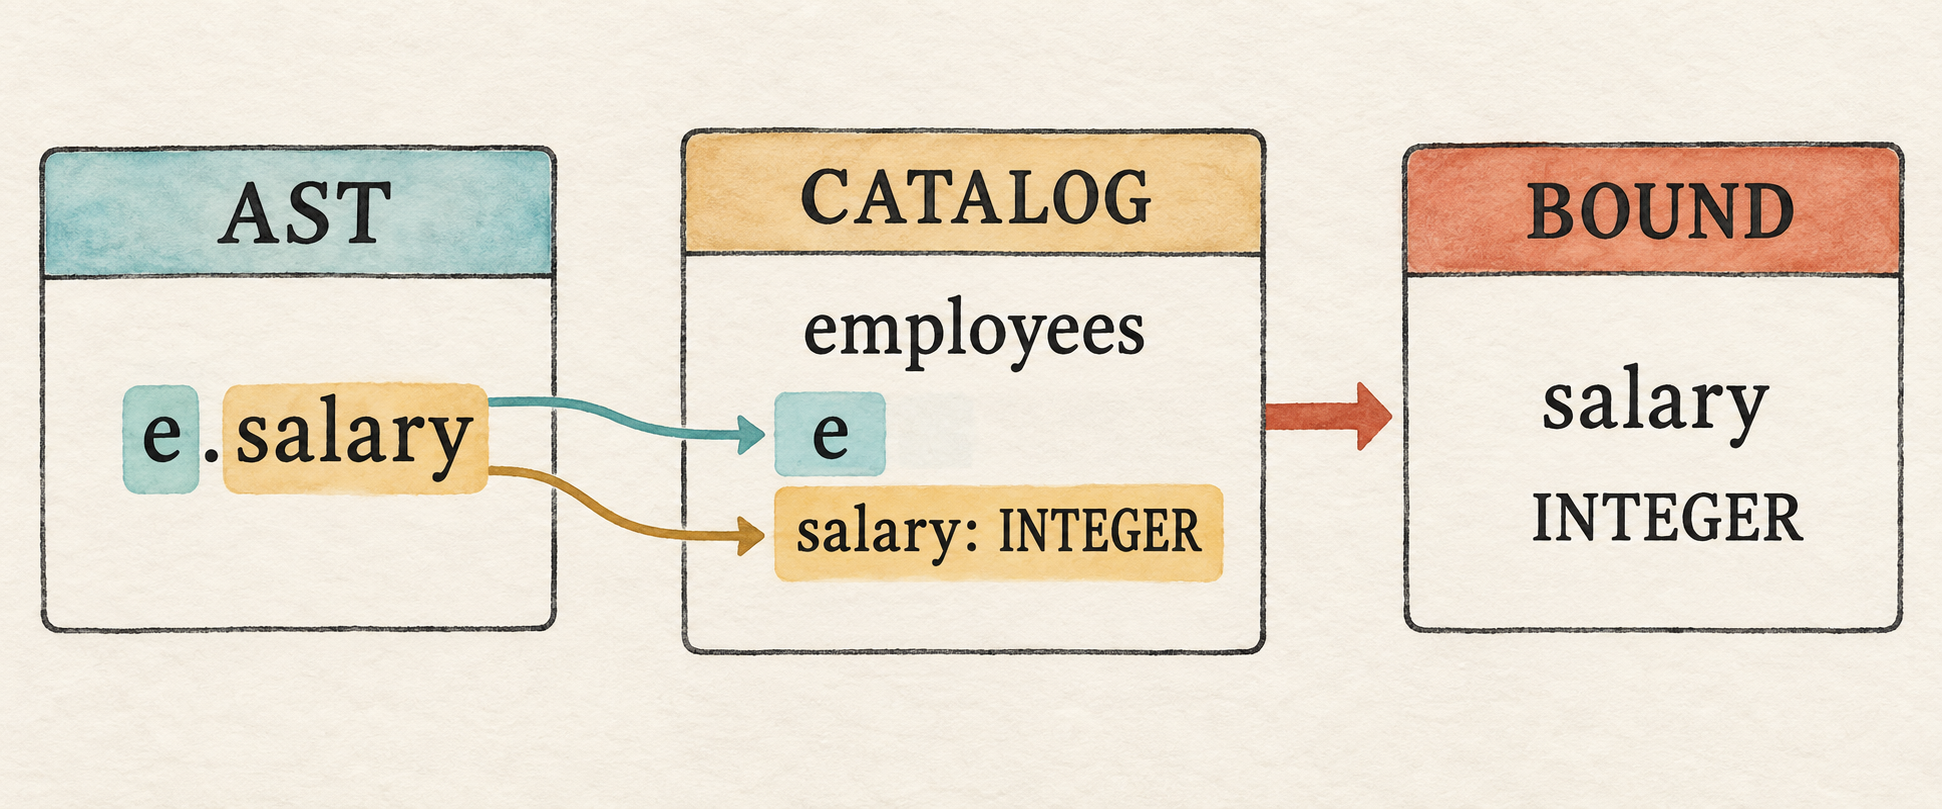
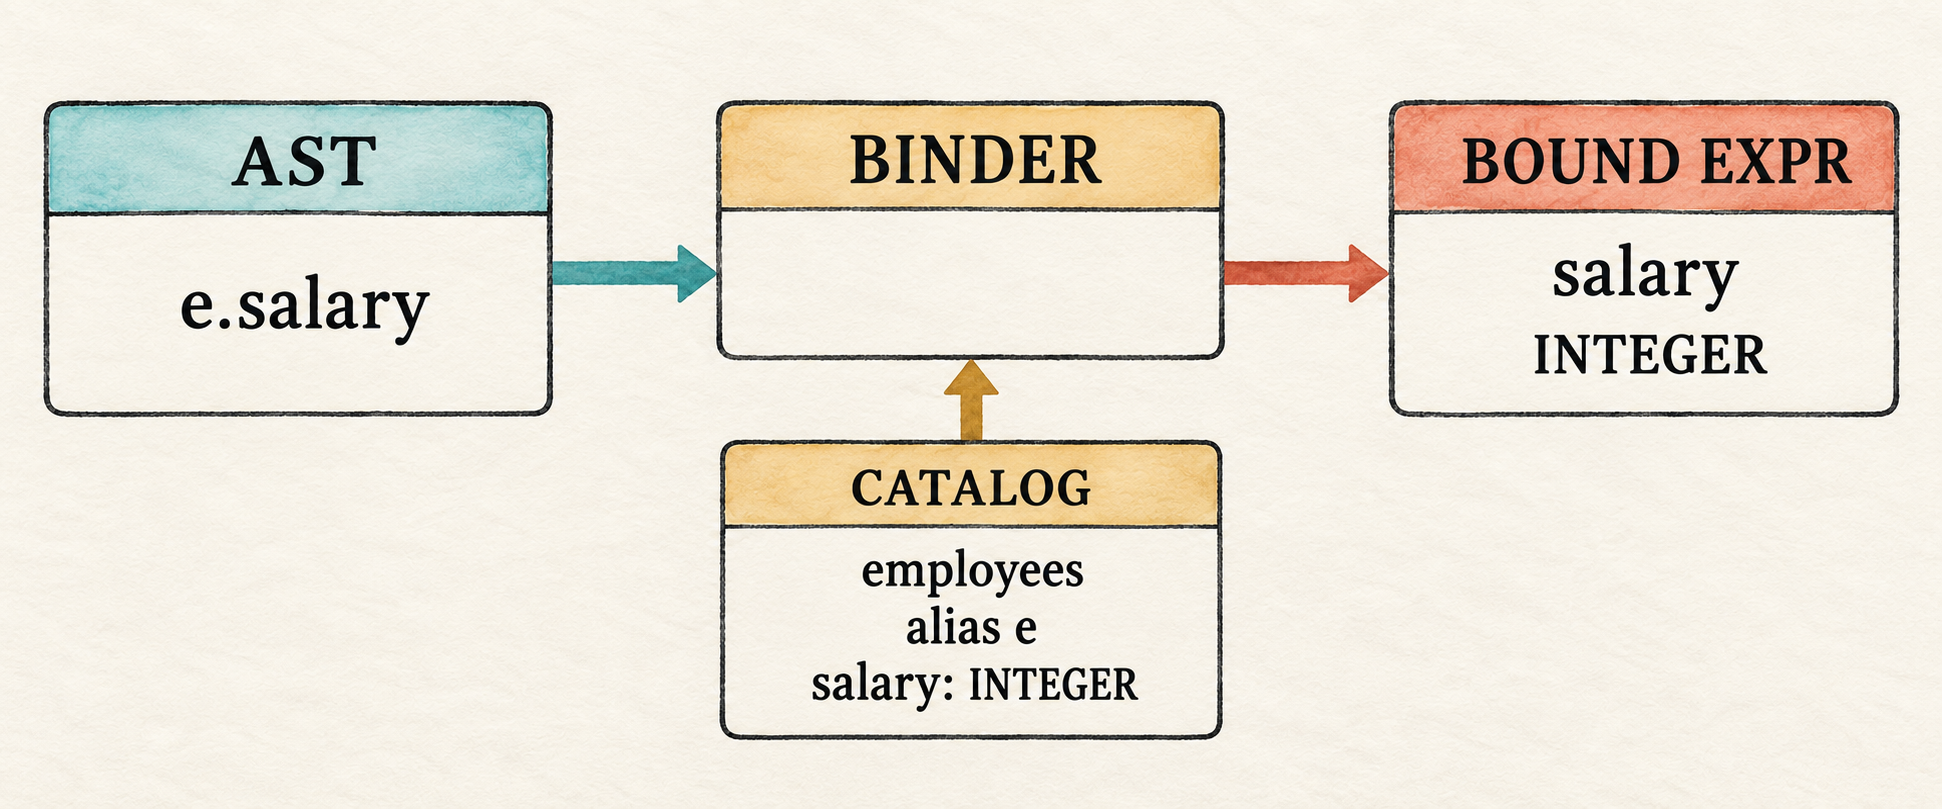
Clarify Chapter 5 binding and evaluation flow

diff --git a/book/005-binding-gives-names-meaning.md b/book/005-binding-gives-names-meaning.md
@@ -334,6 +334,11 @@ exists, that alias is accepted; otherwise, the table name may qualify a
 column. `columns` contains the selected table's catalog columns. The binder
 searches this slice to verify a column name and recover its type.
 
+This teaching dialect compares table, alias, and column names using their
+exact spelling. Standard SQL normally folds unquoted identifiers to a
+canonical case, but identifier normalization and quoted identifiers remain
+outside the current chapter.
+
 For the representative query:
 
 ```sql
@@ -679,8 +684,8 @@ after all of its children have resolved names and passed their type checks.
 The resulting plan contains two checked trees but has no execution method yet.
 
 <figure class="book-illustration book-diagram">
-  <img src="images/005-column-binding.png" alt="The unresolved AST column e.salary is checked against an employees catalog entry where alias e maps salary to INTEGER, producing a bound salary column with integer type.">
-  <figcaption>Binding checks the qualifier and column, recovers the type, and produces a simpler expression for execution.</figcaption>
+  <img src="images/005-column-binding.png" alt="The unresolved AST column e.salary and an employees catalog entry enter the binder, which produces a bound salary column with integer type.">
+  <figcaption>The AST and catalog enter the binder, which validates the qualifier and column and produces a typed bound expression.</figcaption>
 </figure>
 
 ## 5.5 Inspect the bound plan
@@ -750,8 +755,10 @@ fn employee_catalog() -> Catalog {
 
 The column list is the schema for the rows below it. Nothing in this small
 catalog forces that schema and `employee()` to agree, so adding or changing a
-column requires updating both. A later storage representation will remove
-this manually maintained duplication.
+column requires updating both. Later, when rows are created from a table's
+schema, the database can prevent this mismatch instead of relying on the
+application to keep the column definitions and row values synchronized. The
+roadmap deliberately leaves that exact chapter boundary open.
 
 The prompt stops after binding and prints the plan rather than executing it.
 
@@ -834,10 +841,13 @@ that checked expression produces for the current row.
 Binding has already removed unresolved names and rejected invalid operand
 types. Evaluation can therefore work from the leaves upward: obtain column and
 literal values first, then apply each parent operator to the values produced by
-its children. We will import `Row` alongside `Value` and give the bound tree an
-evaluation method.
+its children. As with binding, we will define the operation-specific functions
+first and assemble the recursive dispatcher last.
 
-### 5.6.1 Evaluate the bound tree
+### 5.6.1 Evaluate unary operations
+
+Evaluation will read columns from a `Row`, so import `Row` alongside `Value`
+before adding the operation-specific functions.
 
 `src/expression.rs`: replace the first import
 
@@ -845,40 +855,10 @@ evaluation method.
 use crate::row::{Row, Value};
 ```
 
-`src/expression.rs`: add after `BoundExpr`
-
-```rust
-impl BoundExpr {
-    pub fn evaluate(&self, row: &Row) -> Result<Value, String> {
-        match self {
-            BoundExpr::Column(name) => row.get(name).cloned()
-                .ok_or_else(|| format!(
-                    "bound column is missing at execution: {name}")),
-            BoundExpr::Literal(value) => Ok(value.clone()),
-            BoundExpr::Unary { op, expression } => {
-                evaluate_unary(op, expression.evaluate(row)?)
-            }
-            BoundExpr::Binary { left, op, right } => {
-                evaluate_binary(left.evaluate(row)?, op,
-                    right.evaluate(row)?)
-            }
-            BoundExpr::IsNull { expression, negated } => {
-                let is_null = expression.evaluate(row)? == Value::Null;
-                Ok(Value::Boolean(if *negated {
-                    !is_null
-                } else {
-                    is_null
-                }))
-            }
-        }
-    }
-}
-```
-
 Unary evaluation is small because binding has already checked the operand
-type.
+type. `NULL` propagates through all three unary operators.
 
-`src/expression.rs`: add after `impl BoundExpr`
+`src/expression.rs`: add after `BoundExpr`
 
 ```rust
 fn evaluate_unary(op: &UnaryOp, value: Value) -> Result<Value, String> {
@@ -894,16 +874,6 @@ fn evaluate_unary(op: &UnaryOp, value: Value) -> Result<Value, String> {
     }
 }
 ```
-
-Each arm mirrors one bound node. Columns read a value from the current row,
-and literals clone their stored value. Unary and binary nodes recursively
-evaluate their children before applying an operator. `IsNull` is different:
-it asks whether its child produced `Value::Null` and always returns a Boolean.
-
-The missing-column error should be unreachable for a catalog row because the
-binder has already verified the column. Keeping the error makes a mismatch
-between catalog metadata and row data visible rather than silently producing
-an incorrect result.
 
 ### 5.6.2 Define three-valued Boolean logic
 
@@ -1045,6 +1015,55 @@ fn compare<T: PartialEq + PartialOrd>(left: T,
 Binding guarantees that `compare()` receives a comparison operator. Its error
 arm remains because the Rust type `BinaryOp` also contains non-comparison
 variants and cannot express that narrower guarantee by itself.
+
+### 5.6.4 Assemble the bound-tree evaluator
+
+The supporting functions now cover unary, Boolean, arithmetic, and comparison
+operations. `BoundExpr::evaluate()` can dispatch each node to the appropriate
+behavior and recursively evaluate child expressions.
+
+`src/expression.rs`: add after `compare()`
+
+```rust
+impl BoundExpr {
+    pub fn evaluate(&self, row: &Row) -> Result<Value, String> {
+        match self {
+            BoundExpr::Column(name) => row.get(name).cloned()
+                .ok_or_else(|| format!(
+                    "bound column is missing at execution: {name}")),
+            BoundExpr::Literal(value) => Ok(value.clone()),
+            BoundExpr::Unary { op, expression } => {
+                evaluate_unary(op, expression.evaluate(row)?)
+            }
+            BoundExpr::Binary { left, op, right } => {
+                evaluate_binary(left.evaluate(row)?, op,
+                    right.evaluate(row)?)
+            }
+            BoundExpr::IsNull { expression, negated } => {
+                let is_null = expression.evaluate(row)? == Value::Null;
+                Ok(Value::Boolean(if *negated {
+                    !is_null
+                } else {
+                    is_null
+                }))
+            }
+        }
+    }
+}
+```
+
+Columns read a value from the current row, and literals clone their stored
+value. Unary and binary nodes recursively evaluate their children before
+applying an operator. `IsNull` asks whether its child produced `Value::Null`
+and always returns a Boolean.
+
+The missing-column error should be unreachable for rows constructed through
+the catalog schema because binding has already verified the column. Today,
+however, the catalog schema and row values are assembled separately. The
+error exposes a mismatch between them rather than silently producing an
+incorrect result. Schema-aware row construction can make that mismatch
+unrepresentable later; retaining this check would still provide a useful
+defense against a broken internal invariant.
 
 A bound expression can now evaluate one row. The checked plan from the first
 checkpoint must next call that evaluator for every row it filters or projects.
